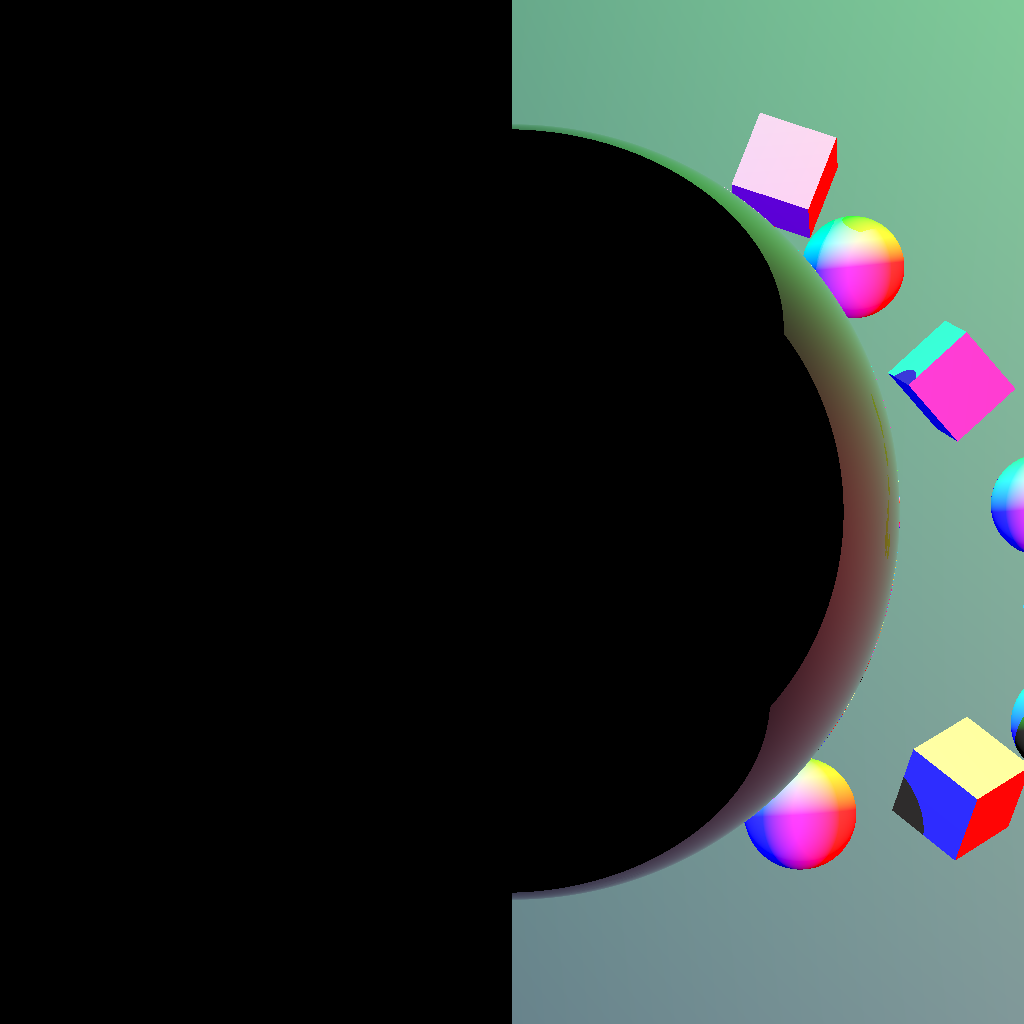
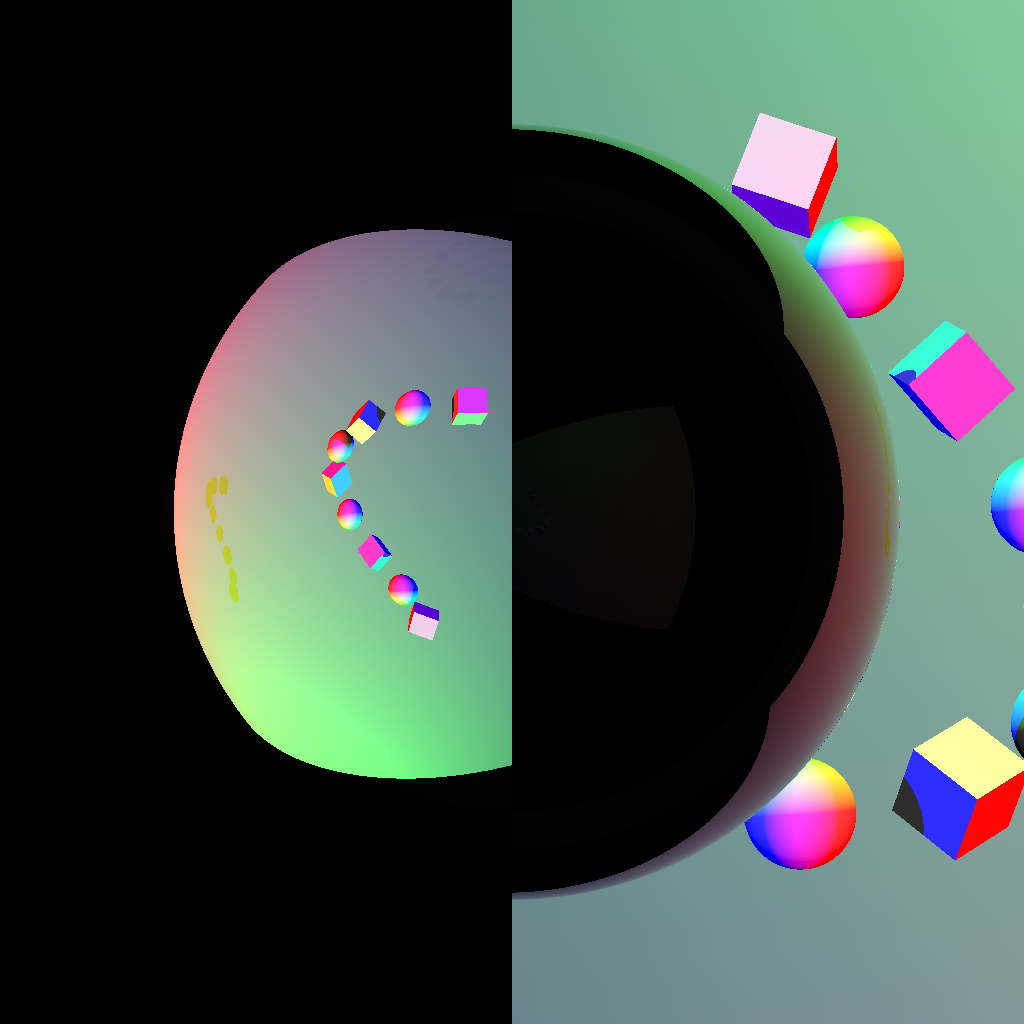
glass working mostly

Changed region(s): [[0.1562, 0.2188, 0.5, 0.7812]]

diff --git a/CS4620/src/cs4620/ray2/shader/Glass.java b/CS4620/src/cs4620/ray2/shader/Glass.java
@@ -61,24 +61,47 @@ public class Glass extends Shader {
 			Vector3d d = ray.direction.clone();
 			Vector3d n = record.normal.clone();
 			Vector3d t = new Vector3d();
-			double dDotN =  d.dot(n);
 			double nDotV = normal.dot(outgoing);
 			
-			if (nDotV < 0) {
+			double n1, n2;
+			double fresnel;
+			if (nDotV < 0) {	
+				n1 = refractiveIndex;
+					n2 = 1f;
+					
 				normal.negate();
+				n.negate();
+				fresnel = fresnel(normal, outgoing, n2);
 			}
+			else {
+				n2 = refractiveIndex;
+				n1 = 1f;
+				fresnel = fresnel(normal, outgoing, n2);
+			}
+			double dDotN =  d.dot(n);
 			
-			double dscr = 1 - ((1-(Math.pow(dDotN,2))/(refractiveIndex*refractiveIndex)));
-			double fresnel = fresnel(normal, outgoing, this.refractiveIndex);
+			double numerator = n1*n1*(1 - dDotN*dDotN);
+			double denominator = n2*n2;
+			
+			
+			
+			double dscr = 1 - numerator/denominator;
+			
 			if (dscr >= 0) {
 				
-				t.set(d. clone(). sub(n. clone(). mul(dDotN). div(refractiveIndex)));
-				t.sub(n.clone().mul(Math.sqrt(dscr)));
+				Vector3d first = d. clone(). sub(n. clone(). mul(dDotN). div(n2)).mul(n1);
+				//t.set(d. clone(). sub(n. clone(). mul(dDotN). div(refractiveIndex)));
+			
+				Vector3d second =  (dscr == 0) ? new Vector3d() : n.clone().mul(-1*Math.sqrt(dscr));
+				System.out.println(second);
+				//t.set(first);
+				t.set(first.add(second));
+			//	t.set(d. clone(). sub(n. clone(). mul(dDotN). div(refractiveIndex)).sub(n.clone().mul(Math.sqrt(dscr))));
 				t.normalize();
 				Ray refraction = new Ray(record.location.clone(), t);
 				refraction.start = Ray.EPSILON;
-			//	refraction.end = Double.POSITIVE_INFINITY;
-				refraction.end = ray.end;
+				refraction.end = Double.POSITIVE_INFINITY;
+			//	refraction.end = ray.end;
 				Colord refractedColor = new Colord();
 				RayTracer.shadeRay(refractedColor, scene, refraction, depth+1);
 				outIntensity.add(refractedColor.mul(1.0 - fresnel));
